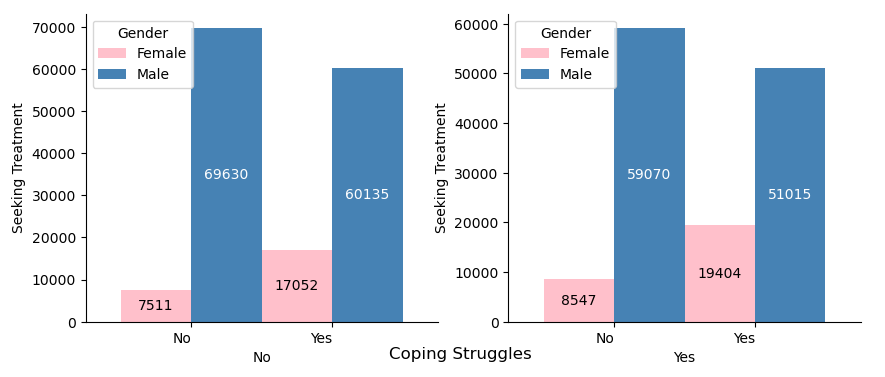
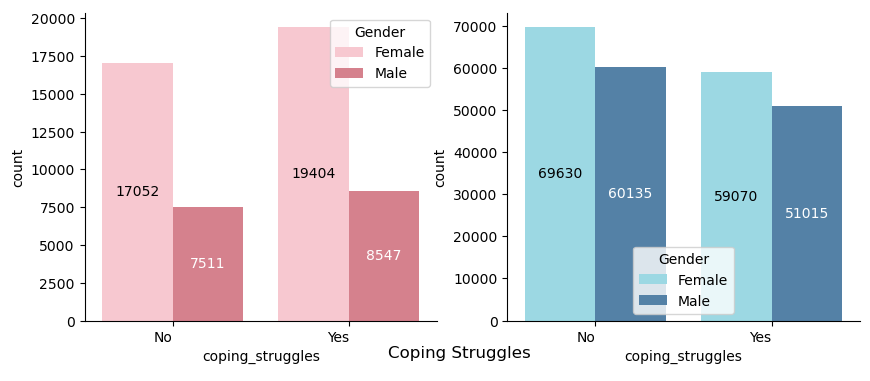
Added key finding and conclusion

diff --git a/projects/_posts/2024-04-11-treatment-analysis.md b/projects/_posts/2024-04-11-treatment-analysis.md
@@ -199,13 +199,10 @@ Chart showing individuals with coping struggles by gender.
 <summary>Expand to see code used</summary>
 <div markdown="1">
 ```python
-# Analyze the relationship between coping struggles and treatment
-coping_struggles_by_treatment_yes = df[df['coping_struggles'] == 'Yes'].groupby(['treatment', 'gender'])['gender'].count().unstack().fillna(0)
-coping_struggles_by_treatment_no = df[df['coping_struggles'] == 'No'].groupby(['treatment', 'gender'])['gender'].count().unstack().fillna(0)
-
 # chart settings
-colors = ['pink', 'steelblue'] 
-gender = ['Female', 'Male']
+female_pallete = sns.color_palette(['#FFC0CB', '#E37383'])
+male_pallete = sns.color_palette(['#90E0EF', '#4682b4'])
+legend = ['No', 'Yes']
 label_colors = ['black', 'white']
 
 # set the fig size for the titles
@@ -213,10 +210,11 @@ fig, (ax1, ax2) = plt.subplots(1, 2, figsize=(10, 4))
 
 fig.supxlabel('Coping Struggles')
 
-ax1 = coping_struggles_by_treatment_no.plot(kind='bar', ax=ax1, width=1, xlabel='No', ylabel='Seeking Treatment', color=colors)
+ax1 = sns.countplot(x='coping_struggles', data=df[df['gender'] == 'Female'], hue='treatment', ax=ax1, palette = female_pallete)
+
 
 # set the location of the legend
-ax1.legend(title='Gender', labels=gender, loc='upper left')
+ax1.legend(title='Gender', labels=gender, loc='upper right')
 
 for i, c in enumerate(ax1.containers):
     # Optional: if the segment is small or 0, customize the labels
@@ -233,10 +231,10 @@ for label in ax1.get_xticklabels():
 ax1.spines['top'].set_visible(False)
 ax1.spines['right'].set_visible(False)
 
-ax2 = coping_struggles_by_treatment_yes.plot(kind='bar', ax=ax2, width=1, xlabel='Yes', ylabel='Seeking Treatment', color=colors)
+ax2 = sns.countplot(x='coping_struggles', data=df[df['gender'] == 'Male'], hue='treatment', ax=ax2, palette = male_pallete)
 
 # set the location of the legend
-ax2.legend(title='Gender', labels=gender, loc='upper left')
+ax2.legend(title='Gender', labels=gender, loc='lower center')
 
 for i, c in enumerate(ax2.containers):
     # Optional: if the segment is small or 0, customize the labels
@@ -1105,6 +1103,8 @@ plt.close()
 <br/> 
 
 ## Mental Health History
+From the following chart we can a fairly even distribution with individuals with no mental health history slightly ahead. Again there is an even distrubtion to seeking treatment.
+
 ![Full-width image](/data-analysis-portfolio/assets/img/mental-health/2024-04-11/mental-health-history-by-treatment.png){:.left loading="lazy"}
 
 Chart showing individuals with mental health history.
@@ -1145,6 +1145,8 @@ plt.close()
 <br/> 
 
 ### Mental Health History by Gender
+The female gender have the highest count for maybe having mental health history whereas the males have a higher count for not having a mental health history.
+
 ![Full-width image](/data-analysis-portfolio/assets/img/mental-health/2024-04-11/mental-health-history-by-treatment-by-gender.png){:.left loading="lazy"}
 
 Chart showing individuals with mental health history by gender.
@@ -1439,3 +1441,14 @@ plt.close()
 </details>
 <br/> 
 
+## Key Findings
+- Females are more likely to NOT seek treatment.
+- There is an even split in numbers for those seeking treatment and not seeking treatment.
+- By gender, there is a 50/50 split for those seeking treatment.
+- Females have slightly more coping struggles than males.
+- Housewife occupation has the highest count in numbers.
+- Females are more likely to have growing stress.
+- Females re more likely to have family history and males more likely to not have family history.
+
+## Conclusion
+I would like to perform additional analysis on the other variables to compare with the analysis I have created here to see if there is any factors that are influencing these results.
